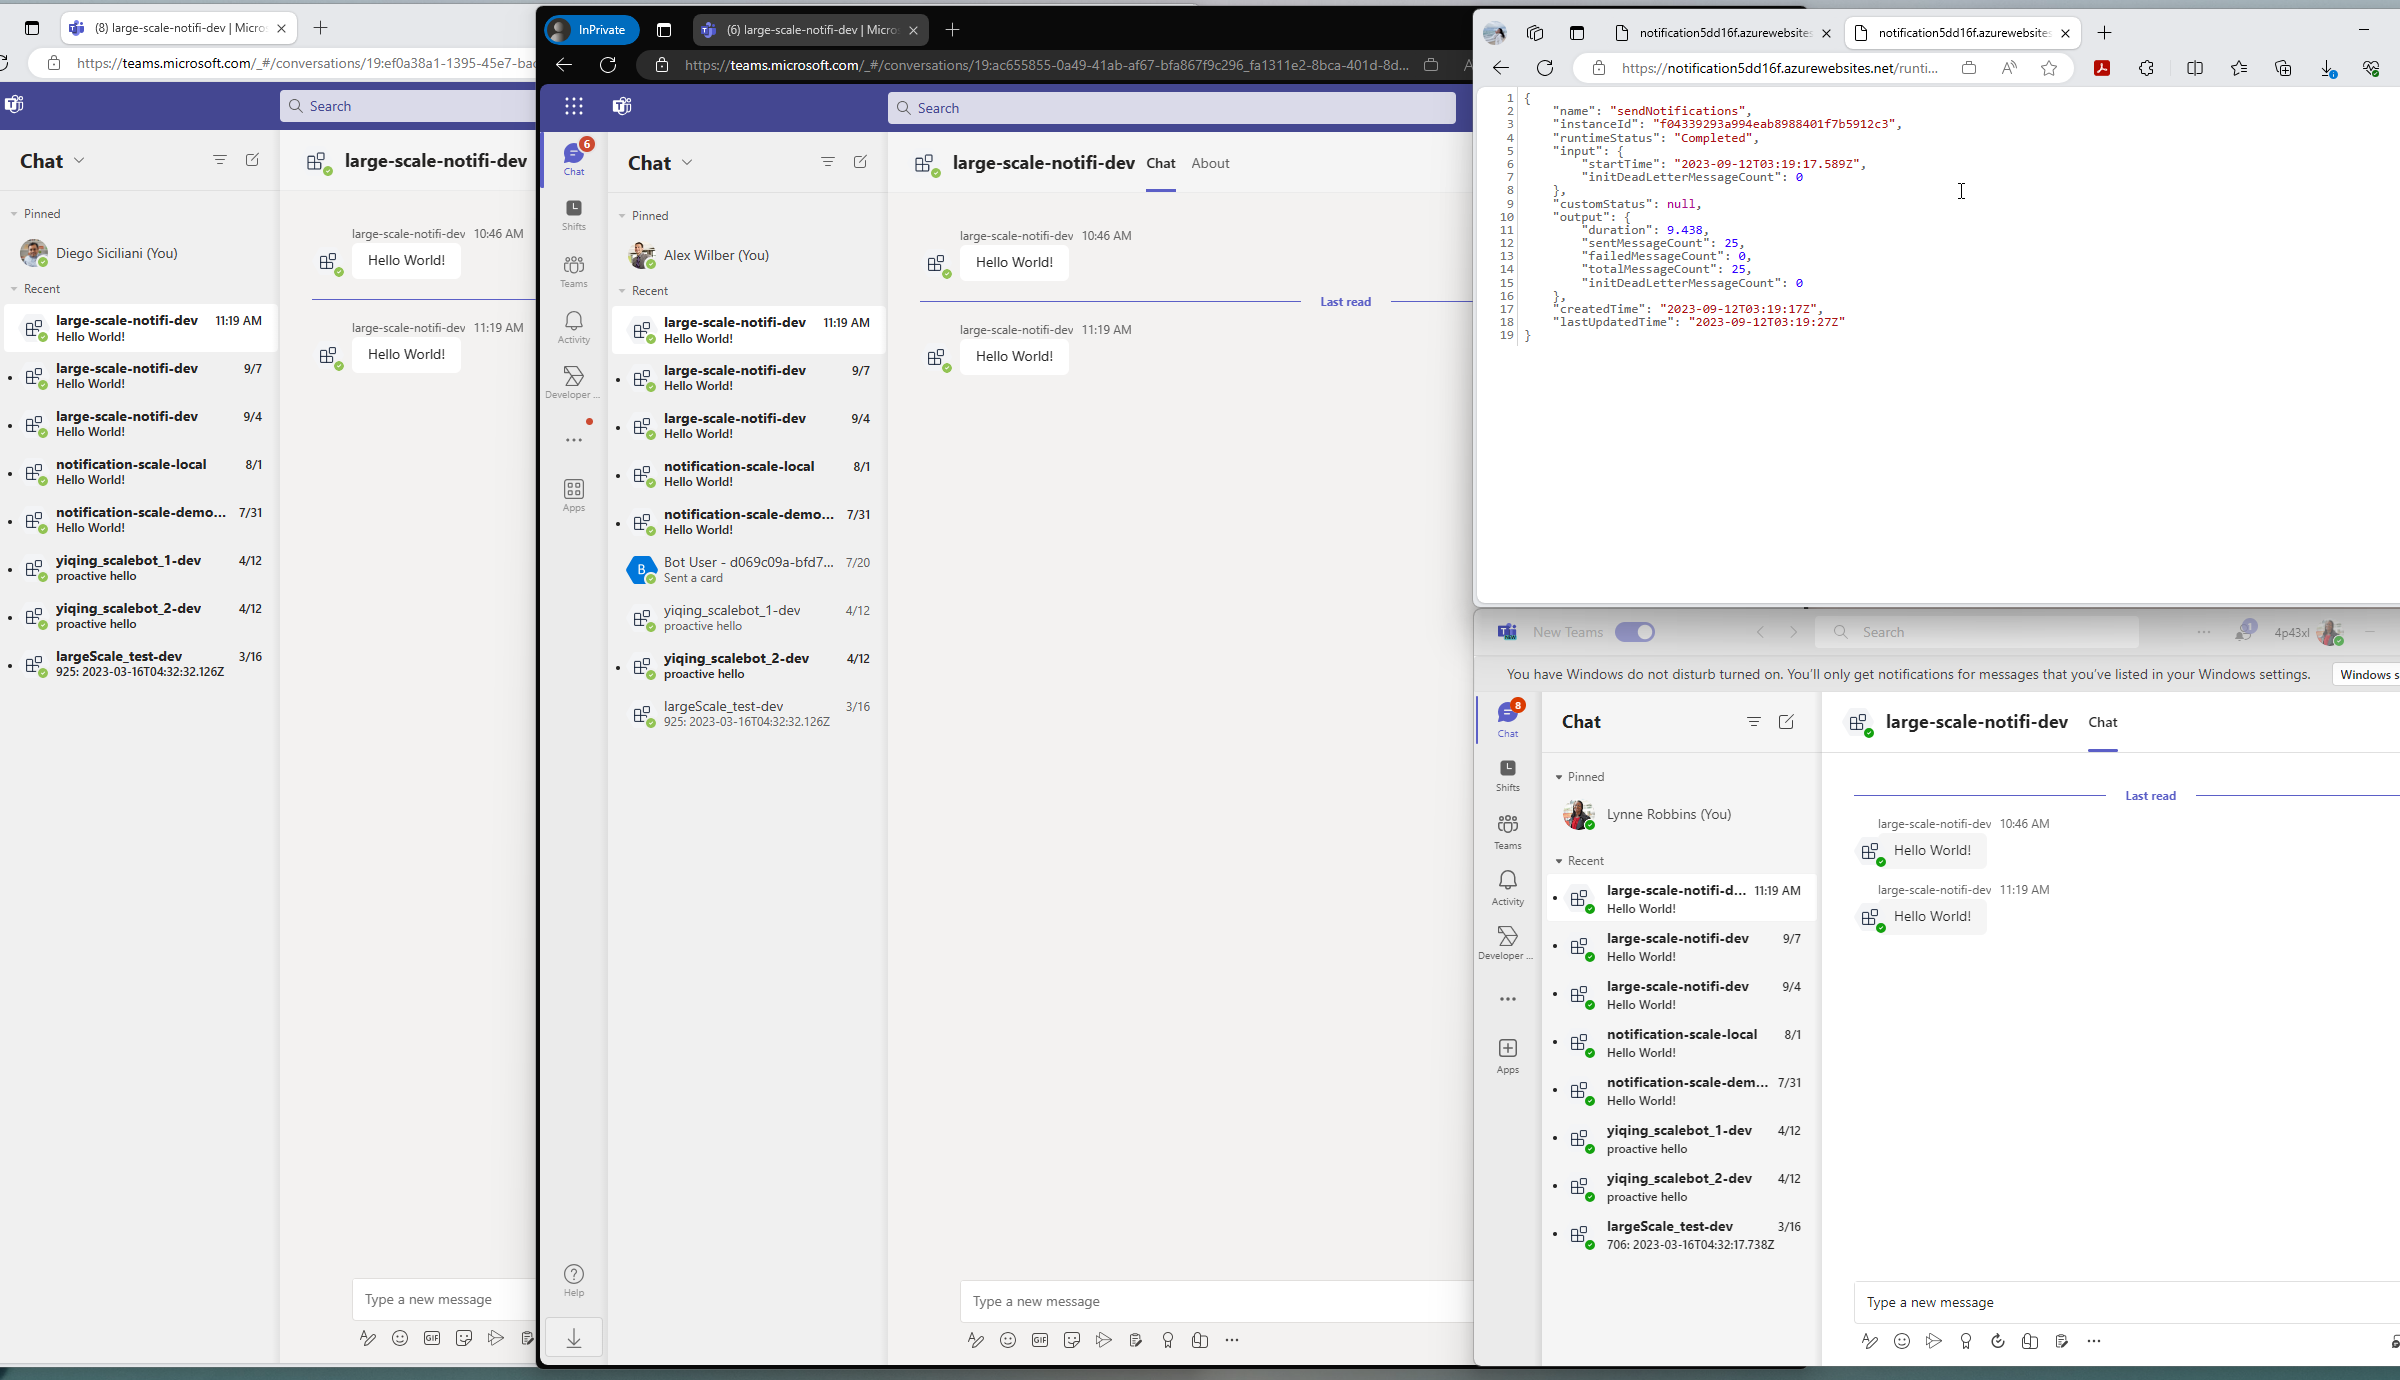
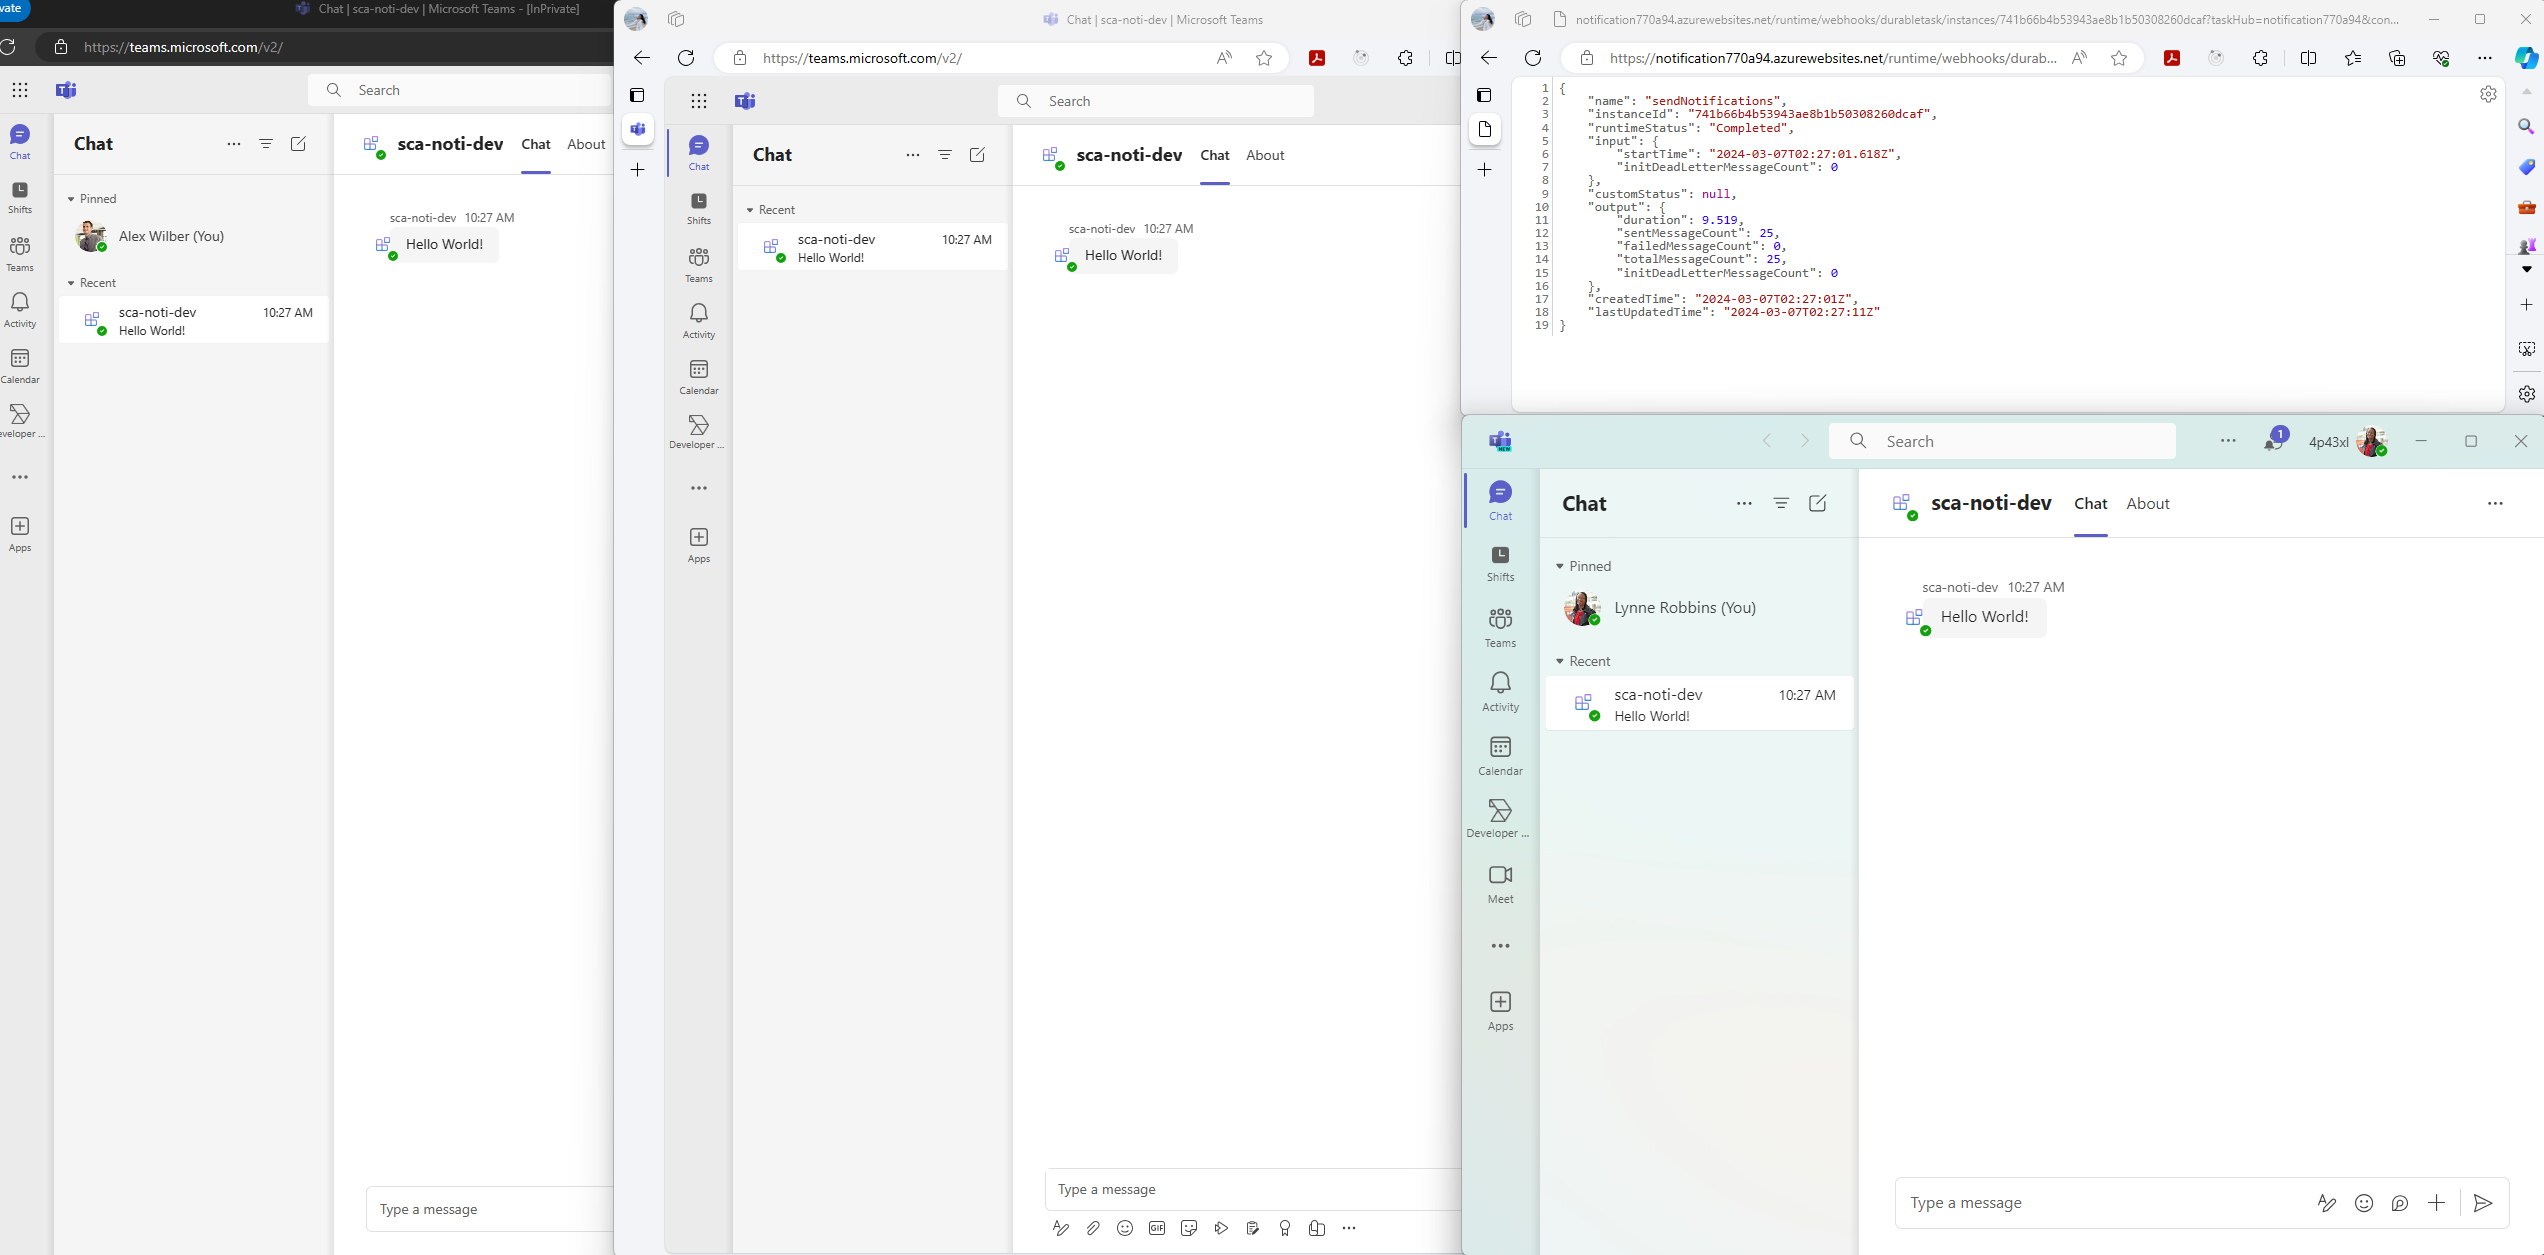
fix: update large-scale-notification screenshot and README

Changed region(s): [[0.0, 0.0, 1.0, 1.0], [0.375, 0.1554, 0.4688, 0.2797], [0.7812, 0.5904, 0.8438, 0.6837]]

diff --git a/large-scale-notification/README.md b/large-scale-notification/README.md
@@ -1,16 +1,17 @@
 ---
 page_type: sample
 languages:
-- typescript
+  - typescript
 products:
-- office-teams
-- office
+  - office-teams
+  - office
 name: Large Scale Notification Bot
 urlFragment: officedev-teamsfx-samples-bot-large-scale-notification
 description: This sample demonstrates a Teams notification bot app created by Teams Toolkit to send individual chat messages to a large number of users.
 extensions:
   createdDate: "2023-10-17"
 ---
+
 # Overview of the Large Scale Notification Bot
 
 This sample demonstrates the architecture of a Teams notfication bot app created by Teams Toolkit to send individual chat messages to a large number of users in a tenant. This app relies on Azure services such as [Durable Function](https://learn.microsoft.com/en-us/azure/azure-functions/durable/durable-functions-overview?tabs=csharp-inproc) and [Service Bus Queue](https://learn.microsoft.com/en-us/azure/service-bus-messaging/service-bus-queues-topics-subscriptions#queues) to handle high volume and speed of notification messaging.
@@ -47,6 +48,11 @@ To debug the project, you will need to configure an Azure Service Bus to be used
 4. Visit https://developer.microsoft.com/en-us/graph/graph-explorer. Click "Modify permissions" and consent "TeamsAppInstallation.ReadWriteForUser" & "TeamsAppInstallation.ReadWriteAndConsentForUser".
 5. Copy the "Access token" and paste it to variable `ACCESS_TOKEN` in `script/installAppForUsers.js`.
 6. Run command in project folder: `node script/installAppForUsers.js`.
+   > After publishing your app, it may take several hours before you can retrieve app details using the Graph API, which is utilized in the `installAppForUsers` script. You could check if the app is ready by sending the following request in Graph Explorer, and replace `<TEAMS_APP_ID>` with the actual "App Id" from step 2. If the value of `@odata.count` in the response is equal to 1, you are good to run the script.
+   >
+   > ```
+   > GET https://graph.microsoft.com/v1.0/appCatalogs/teamsApps?$filter=id eq '<TEAMS_APP_ID>'
+   > ```
 7. Check the provisioned Azure Storage Account Table `installation` for installation records.
 
 ## Mock the installation of a large amount of users
